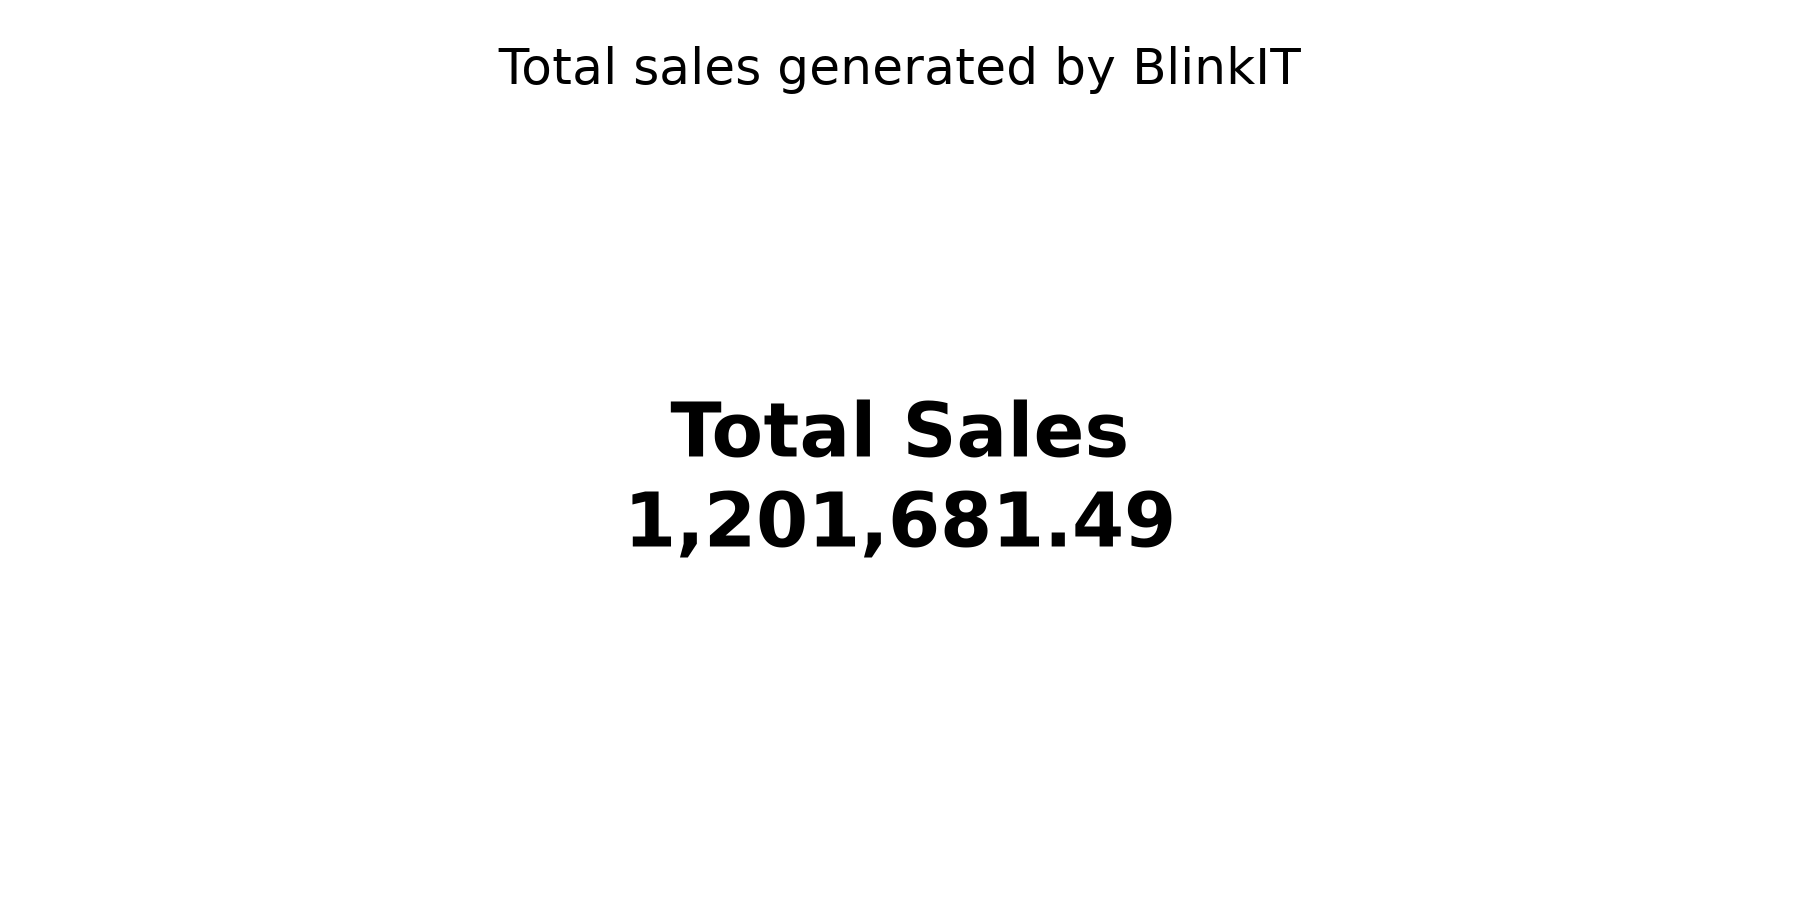
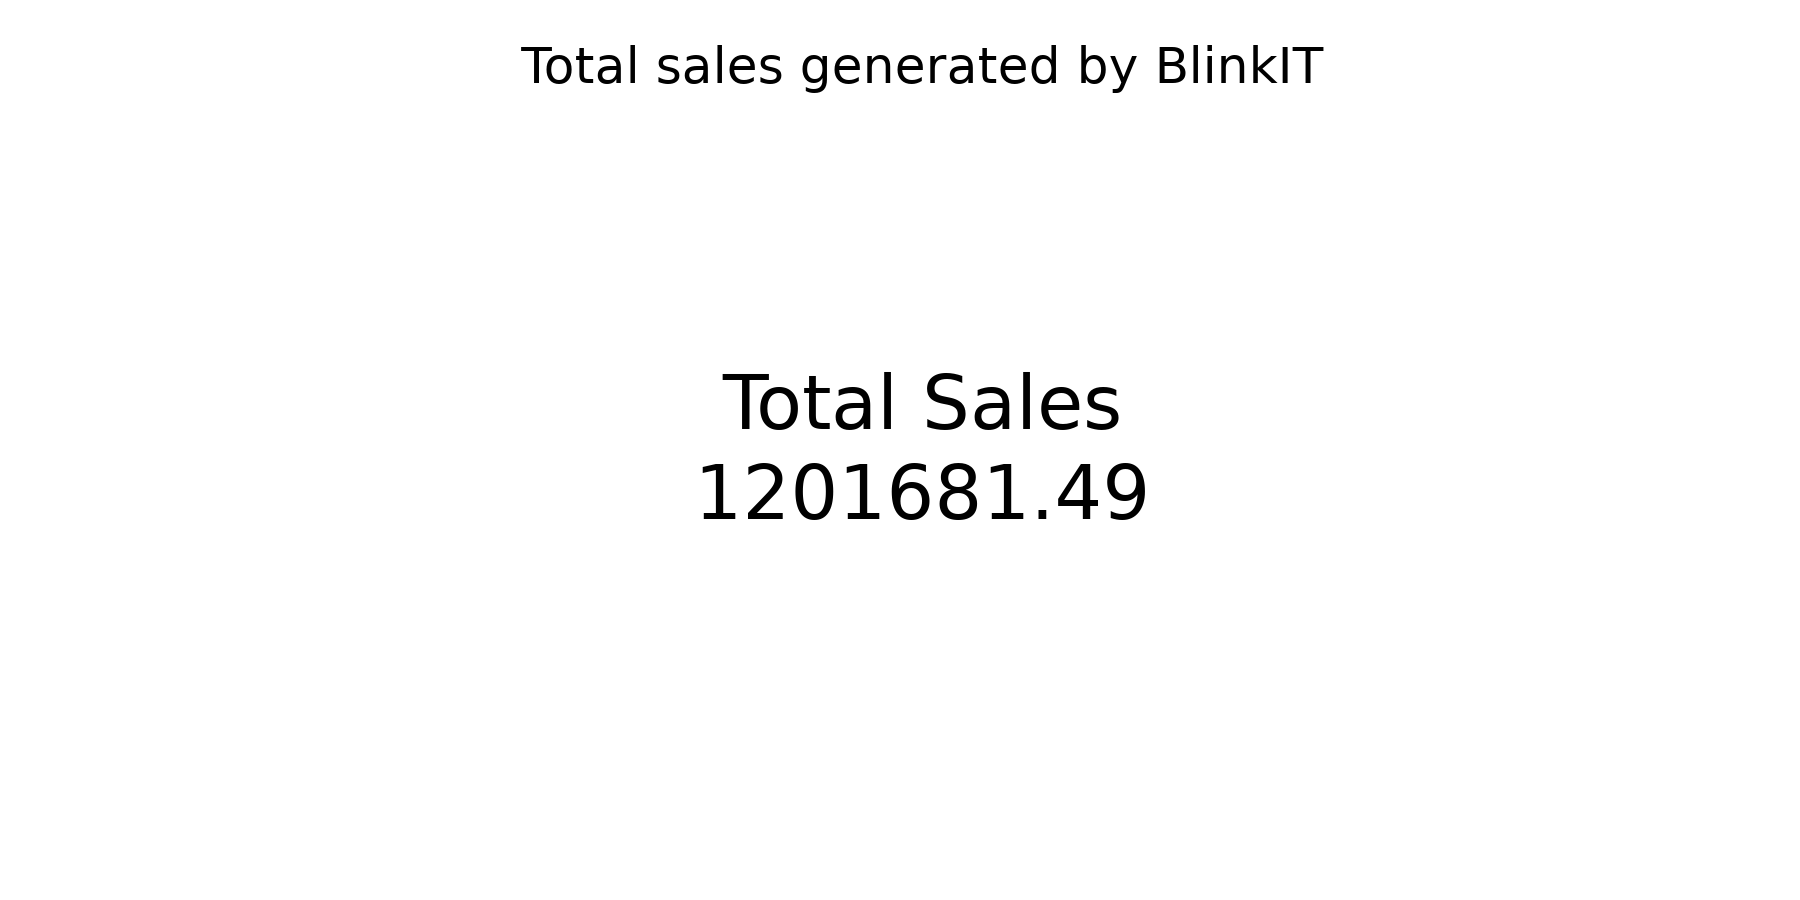
Analysis of BlinkIT dataset

Changed region(s): [[0.3422, 0.4044, 0.6533, 0.6222], [0.28, 0.0311, 0.7467, 0.1244]]

diff --git a/analysis.py b/analysis.py
@@ -33,15 +33,14 @@ plt.figure(figsize=(6,3))
 plt.text(
   0.5,
   0.5,
-  f"Total Sales\n{total_sales:,.2f}",
+  f"Total Sales\n{total_sales:.2f}",
   fontsize=18,
   ha="center",
   va="center",
-  weight="bold"
 )
 plt.axis("off")
 plt.title("Total sales generated by BlinkIT")
-plt.tight_layout()
+
 
 plt.savefig("Q1_Total_Sales.png", dpi=300)
 plt.show()